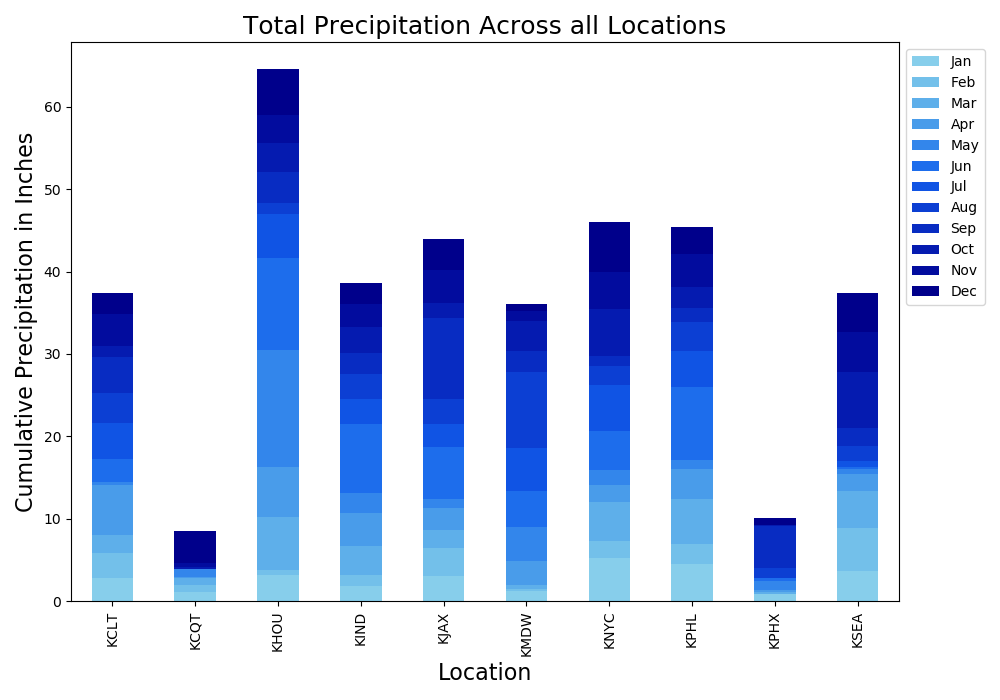
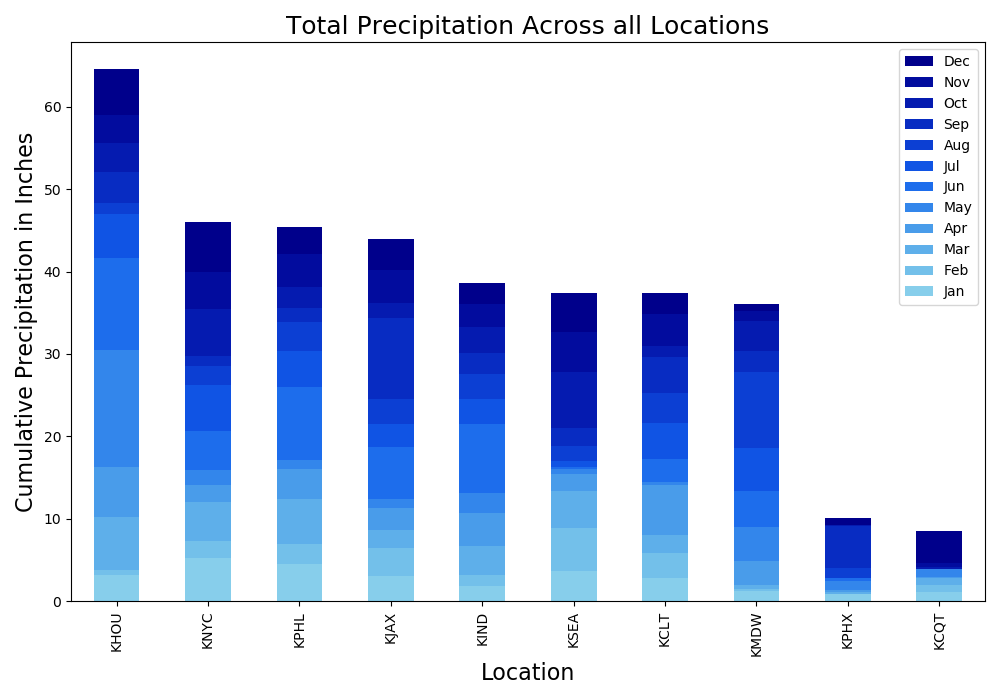
reworked total rainfall function to make graph easier to read

diff --git a/exploratory.py b/exploratory.py
@@ -129,10 +129,12 @@ class weather_examiner(object):
         plt.show()
 
     def graph_rainfall(self, save=False):
+        # Set up initial df to append to later
         df = self.load_and_transform('KCQT')
         df_month = df.groupby(['month']).sum().reset_index()
         df_month['location'] = 'KCQT'
 
+        # Load rest of the dfs and append to initial df
         for place in ['KCLT', 'KHOU', 'KIND',
                       'KJAX', 'KMDW', 'KNYC',
                       'KPHL', 'KPHX', 'KSEA']:
@@ -148,11 +150,29 @@ class weather_examiner(object):
         months = ['Jan', 'Feb', 'Mar', 'Apr', 'May', 'Jun',
                   'Jul', 'Aug', 'Sep', 'Oct', 'Nov', 'Dec']
 
-        pivot_df = df_month.pivot(index='location', columns='month',
-                                  values='actual_precipitation')
+        # Pivot table setup to create stacked bar chart
+        pivot_df = df_month.pivot_table(index='location',
+                                        columns='month',
+                                        values='actual_precipitation',
+                                        aggfunc='sum',
+                                        margins=True)
+        # Sort values to increase readability and drop unused rows and cols
+        pivot_df = pivot_df.sort_values('All',
+                                        ascending=False,
+                                        axis=0).drop('All').drop('All', axis=1)
+
         pivot_df.plot.bar(stacked=True, figsize=(10, 7), color=colors)
 
-        plt.legend(bbox_to_anchor=(1.0, 1), loc='upper left', labels=months)
+        # Reordering the legend to match the stack of the bar chart for
+        # increased readability
+        # Get legend handles
+        handles, _ = plt.gca().get_legend_handles_labels()
+        # List of indicies for new order
+        order = [11, 10, 9, 8, 7, 6, 5, 4, 3, 2, 1, 0]
+        # Set up the legend to display Jan at bottom of legend
+        plt.legend([handles[idx] for idx in order],
+                   [months[idx] for idx in order], bbox_to_anchor=(1.0, 1))
+
         plt.xlabel('Location', fontsize=16)
         plt.ylabel('Cumulative Precipitation in Inches', fontsize=16)
         plt.title('Total Precipitation Across all Locations', fontsize=18)
@@ -217,10 +237,10 @@ if __name__ == "__main__":
     weather_ex = weather_examiner()
     # Bools to control which graphs are produced and if they are saved
     make_temp_graphs = False
-    graph_rain = False
+    graph_rain = True
     graph_record = False
     graph_consecutive = False
-    save = False
+    save = True
 
     if make_temp_graphs:
         for code, name in weather_ex.locations.items():

diff --git a/README.md b/README.md
@@ -7,19 +7,38 @@ While looking through the dataset
 # Cumulative Rainfall
 
 ![](imgs/rainfall.png)
+
 When reviewing this graph two things stood out to me. First, Houston (KHOU), received over 60 inches of precipitation over a one year span and more than a foot more than the closest other cities in the dataset. Houston's biggest month of rainfall came in May 2015 which I looked into further and discovered that on memorial day Houston received around 12 inches of rain in the span of ten hours causing $459.8 million in damages, one of the costliest floods in American history.
 
 ![Motorists are stranded along I-45 along North Main in Houston after storms flooded the area, Tuesday, May 26, 2015. Overnight heavy rains caused flooding closing some portions of major highways in the Houston area. (Cody Duty/Houston Chronicle via AP)](https://s.hdnux.com/photos/36/61/67/8068597/9/ratio3x2_1050.jpg)
 
-On the other end of the spectrum I fully expected Seattle (KSEA) to be the leader in this category due to its reputation as the rainy city. However it came fourth, behind Houston, New York (KNYC), Philadelphia (KPHL), and Jacksonville(KJAX). Going further into my analysis I would find that Seattle ended up having a record setting year of heat. (Upon further research I learned that Seattle is known as the rainiest city due to the number of days with rain and not the amount.)
+On the other end of the spectrum I fully expected Seattle (KSEA) to be the leader in this category due to its reputation as the rainy city. However it came fourth, behind Houston, New York (KNYC), Philadelphia (KPHL), Indianapolis (KIND) and Jacksonville(KJAX). Going further into my analysis I would find that Seattle ended up having a record setting year of heat. (Upon further research I learned that Seattle is known as the rainiest city due to the number of days with rain and not the amount.)
+
+
+
+# Long periods without Precipitation 
+
+LA (KCQT), while is in a desert, having less than ten inches of total rainfall struck me as odd digging further I found that LA had 122 consecutive days where the precipitation was less than 1/20th of an inch with the next closest in Phoenix (KPHX)
+
+![](imgs/consecutive_days.png)
+
+
 
 # Historic Weather
 ![](imgs/record_days.png)
-Seattle set the most heat records with 25 beating Phoenix(KPHX) at 17 and every other city set records in the single digits. Seattle and Phoenix are joined by LA (KCQT) as the only cities in this dataset to not set a new record low during this time span. 
+
+Seattle set the most heat records with 25 beating Phoenix at 17 and every other city set records in the single digits. Seattle and Phoenix are joined by LA  as the only cities in this dataset to not set a new record low during this time span. 
 
 # Weekly Averages 
+After seeing the number of records set in the timespan of the dataset I wanted to look at each city closer and see how different 2014-2015 was when compared to the average year in the city.
 <img src="imgs/weather.gif" width="1200">
 
-Source: [Weather Underground](http://wunderground.com)
+Seattle had an extremely warm year with the average high 3.87°F warmer than years before and lows following suit averaging 3.32°F higher than previous lows.
+
+LA came in as a close second with highs 2.59°F higher and lows 3.02° warmer. However, LA spent 122 consecutive days without significant rainfall.
+
+Indianapolis had a colder year than average with highs 2.51°F colder and lows averaging 1.69°F lower than their average year. Indy also only reached a maximum of 18 consecutive days without significant rainfall, the lowest of all ten cities.
+
+Sources: [Weather Underground](http://wunderground.com)
 
 [FiveThirtyEight](https://github.com/fivethirtyeight/data/tree/master/us-weather-history)
